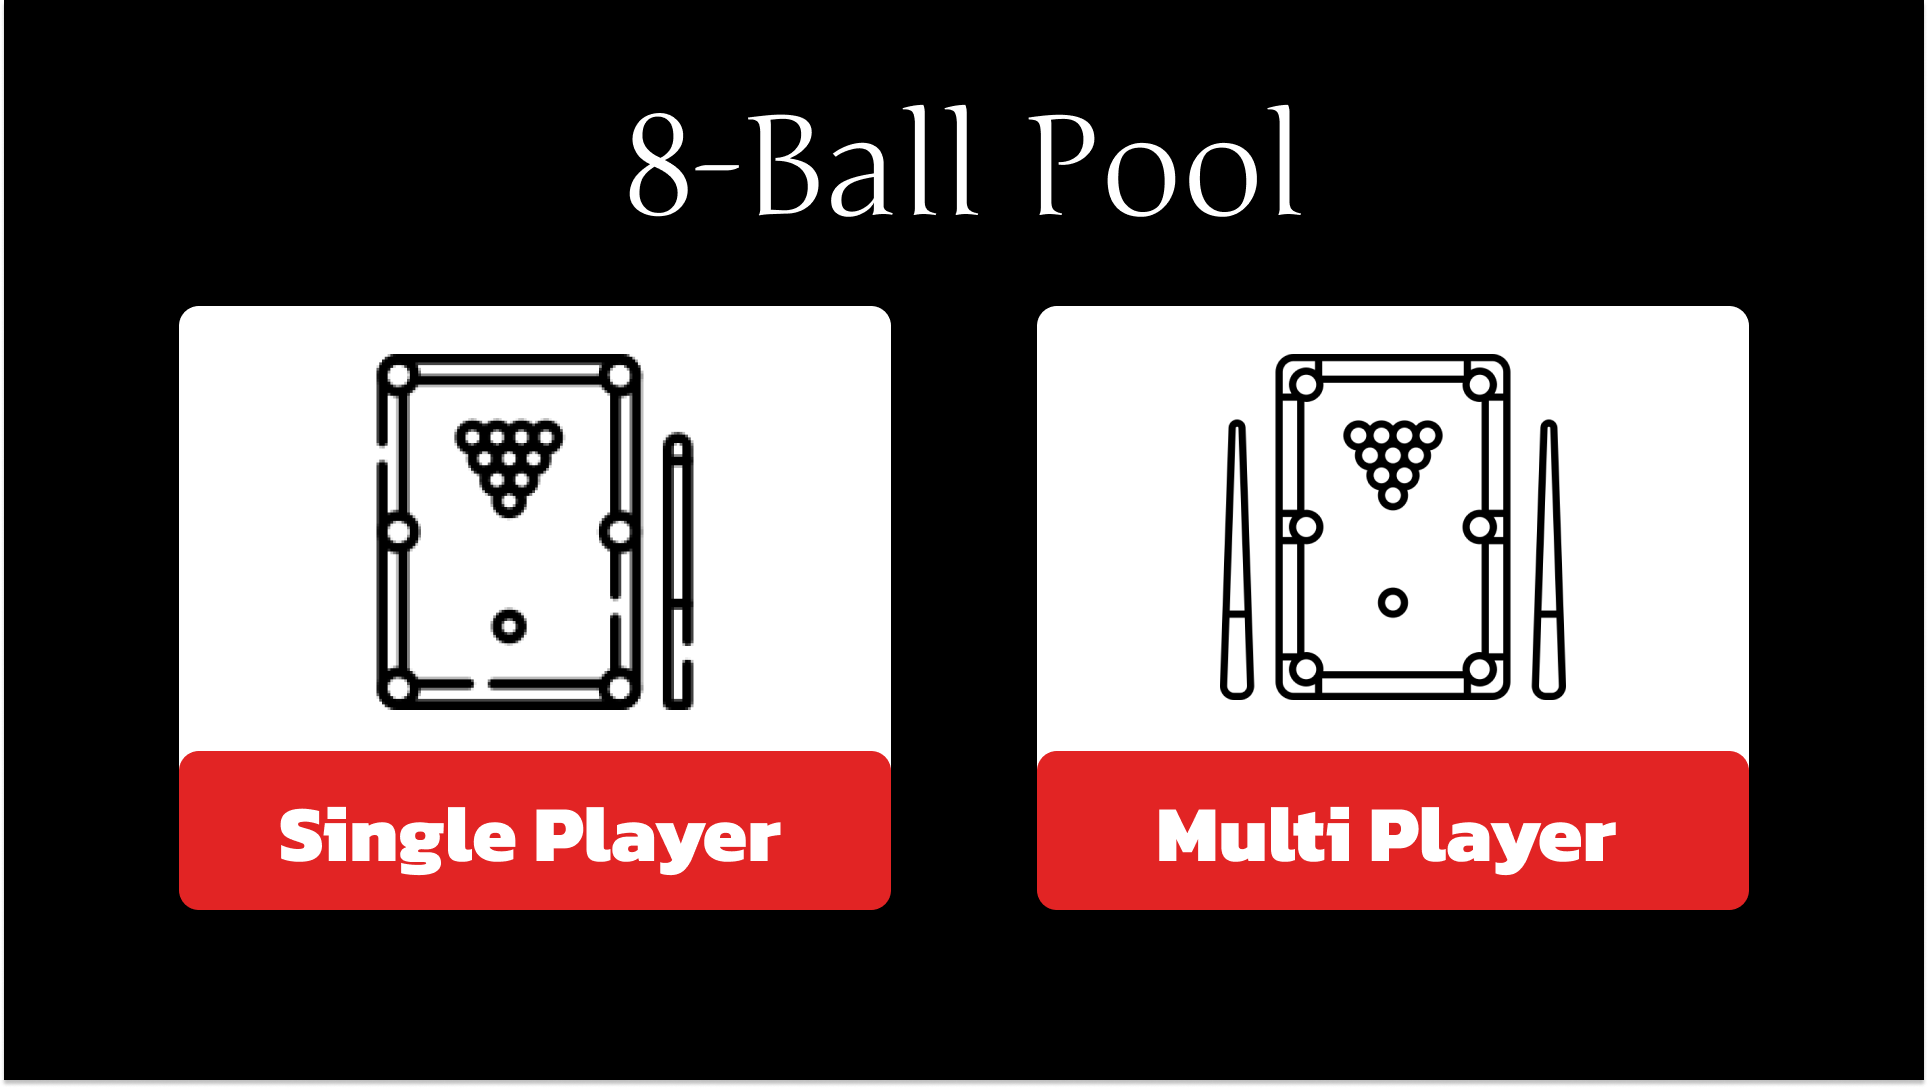
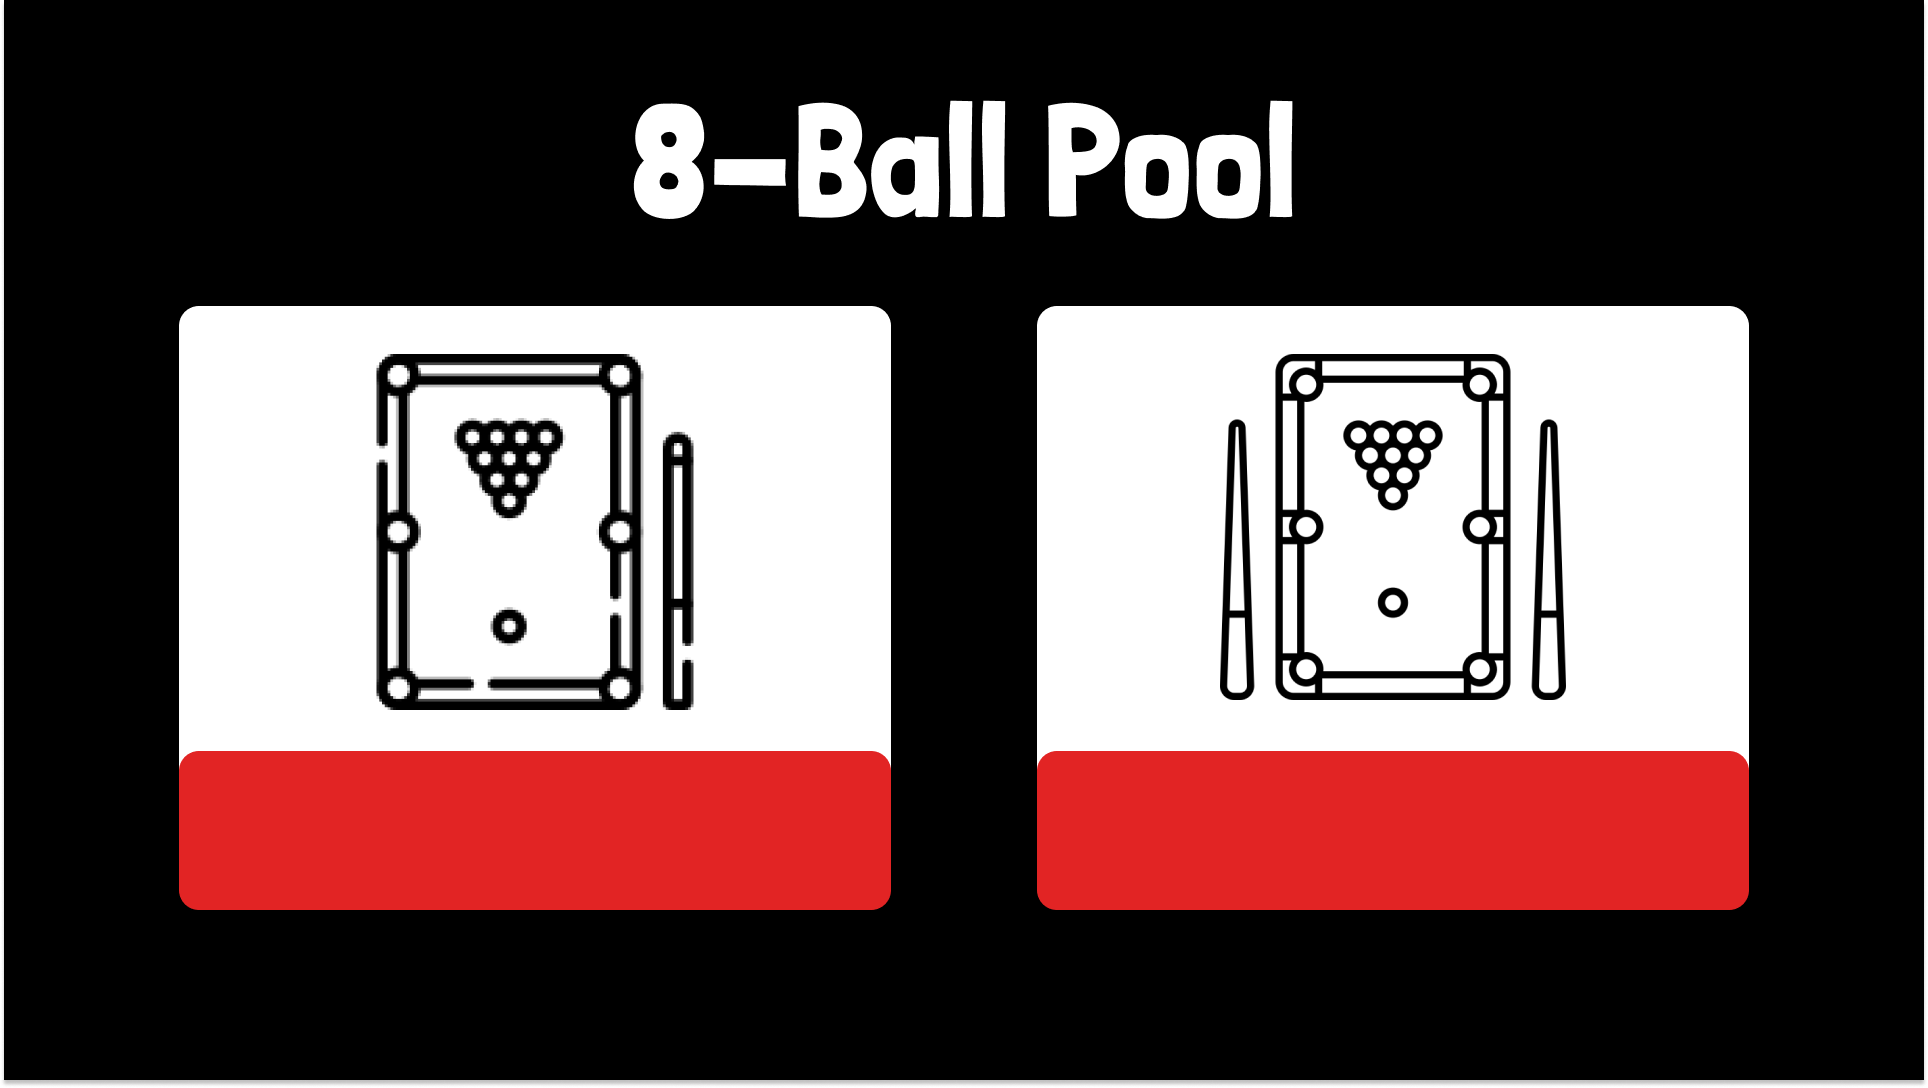
update

Changed region(s): [[0.3112, 0.0938, 0.6846, 0.2188], [0.1245, 0.7188, 0.4046, 0.8125], [0.5913, 0.7188, 0.8402, 0.8125]]

diff --git a/Pool-UI.py b/Pool-UI.py
@@ -88,7 +88,7 @@ class TrainMode(tk.Frame):
                                 command=lambda: controller.show_frame(ModeAmature))
         btn_Amature.place(x=729,y=400,width=475,height=387)
         btn_Custom = Button(self,text="Custom", fg="#FFFFFF",bg="Black",bd=0,activebackground="#FFFFFF",font=self.Myfont(40),)
-        btn_Custom.place(x=729,y=400,width=475,height=387)
+        btn_Custom.place(x=1290,y=400,width=475,height=387)
 
     def Myfont(self, sizefont):
         self.myfont = Font(family="Londrina Solid", size=sizefont)
@@ -102,9 +102,12 @@ class Pool8Mode(tk.Frame):
         bg = Label(self, image=self.bg)
         bg.place(x=0, y=0)
 
-        button = Button(self,text="Training",bg="#FFFFFF",fg="Black", bd=0,activebackground="#FFFFFF",font=self.Myfont(40),   
-                            command=lambda: controller.show_frame(PageOne))  
-        button.place(x=530,y=880,width=300,height=100)
+        button2 = Button(self,text="Single Player",bg="#E22424",fg="#FFFFFF", bd=0,activebackground="#E22424",font=self.Myfont(90),   
+                            command=lambda: controller.show_frame(TrainMode))  
+        button2.pack(pady=140,padx=140)
+        button3 = Button(self,text="Multi Player",bg="#E22424",fg="#FFFFFF", bd=0,activebackground="#E22424",font=self.Myfont(90),   
+                            command=lambda: controller.show_frame(Pool8Mode))  
+        button3.pack(pady=110,padx=110)
 
     def Myfont(self, sizefont):
         self.myfont = Font(family="Londrina Solid", size=sizefont)
